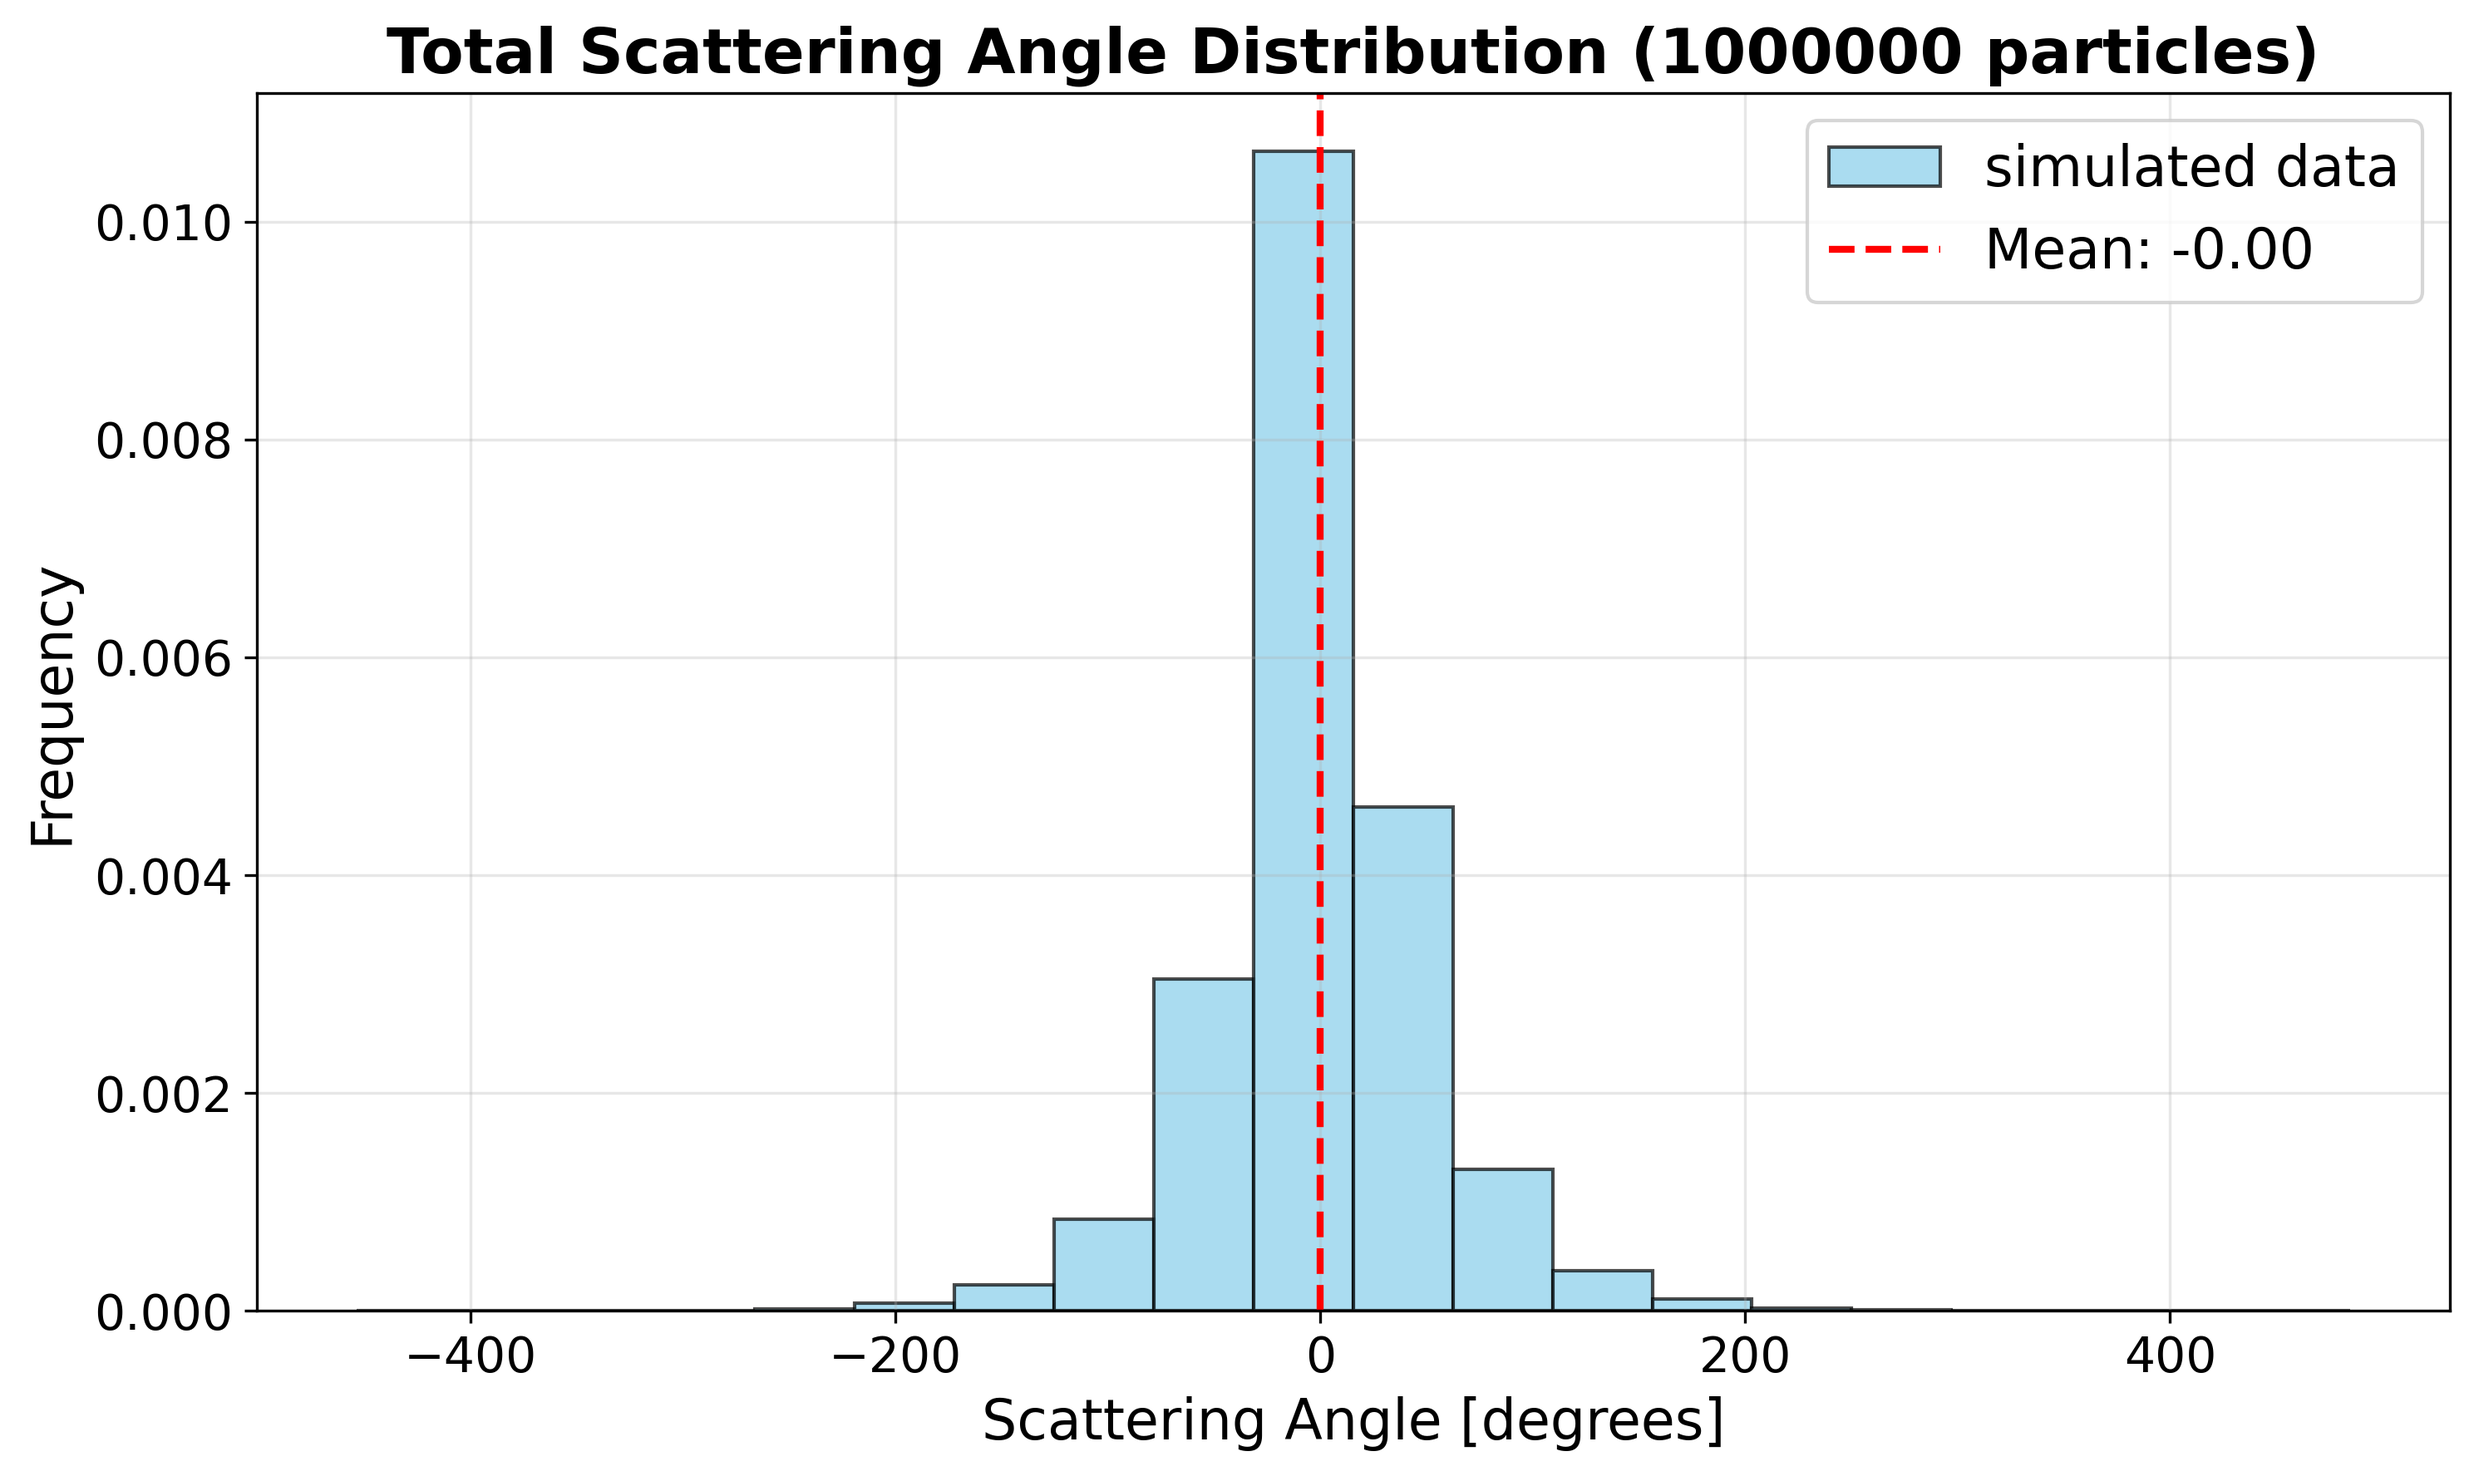
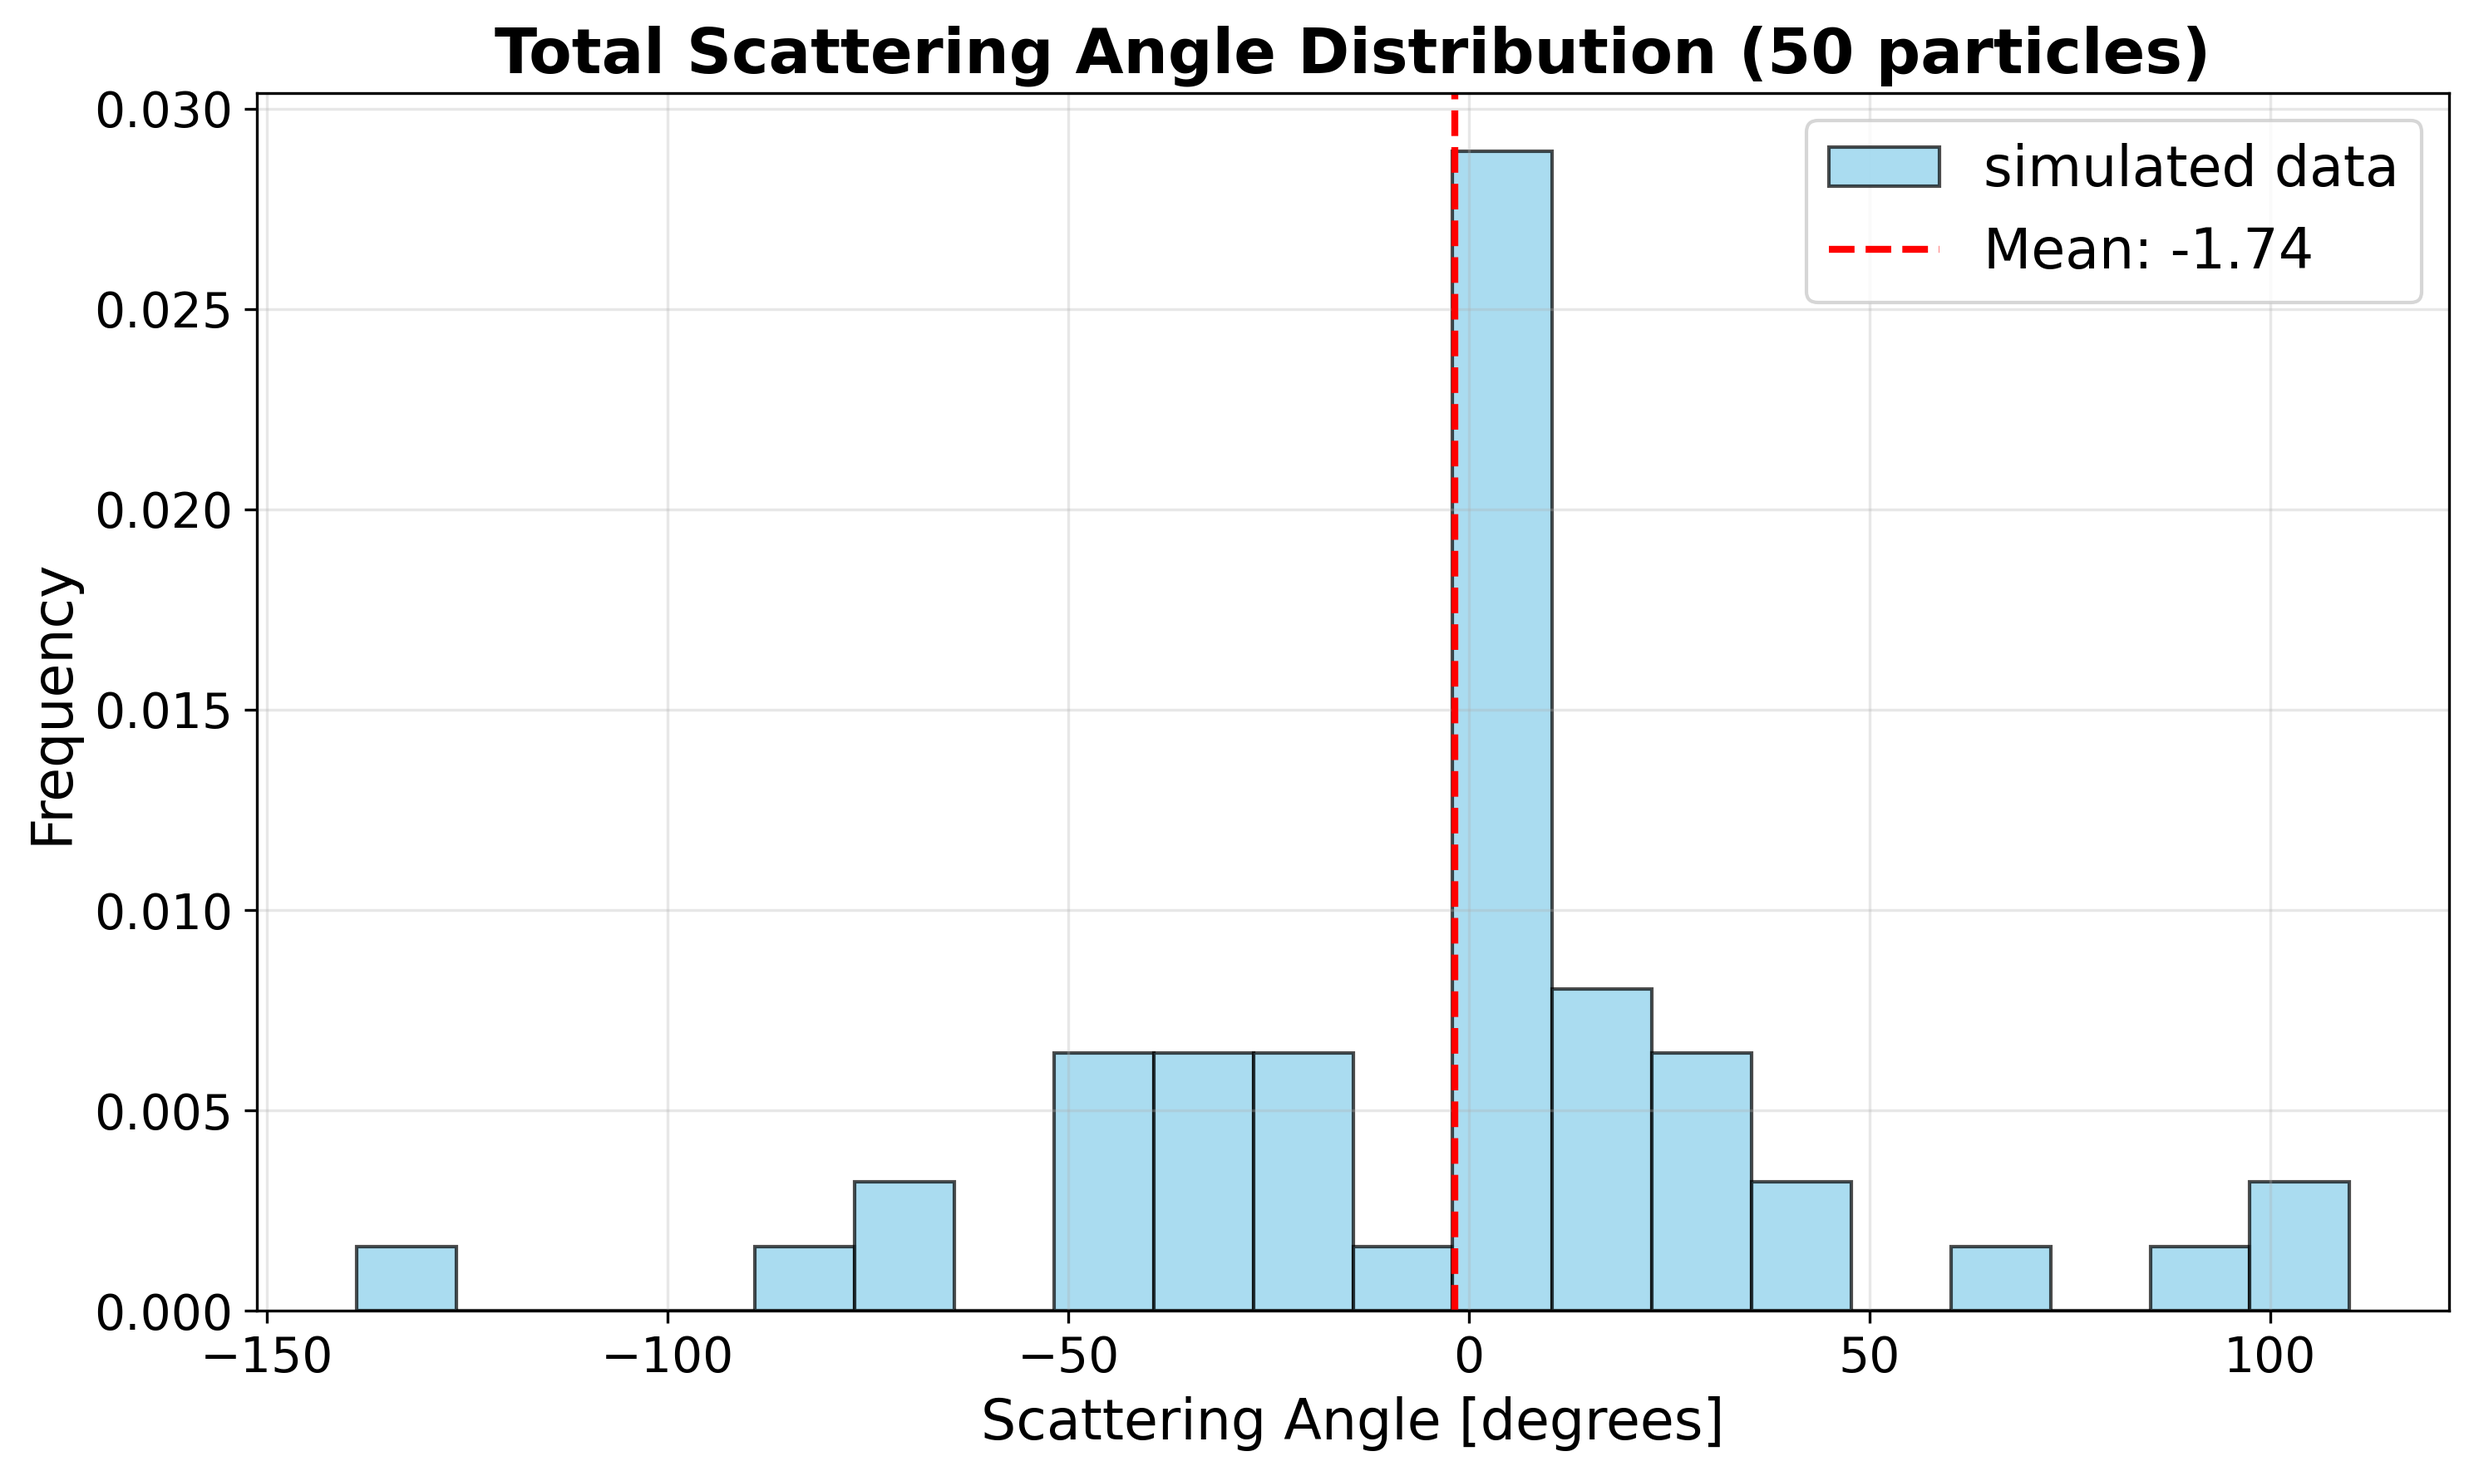
v

diff --git a/exercise3/ex3.py b/exercise3/ex3.py
@@ -4,7 +4,7 @@ import matplotlib.pyplot as plt
 X=np.arange(-5,100,1)
 Y=np.arange(-50,50,1)
 
-N=1000000
+N=50
 
 all_x_paths = []
 all_y_paths = []
